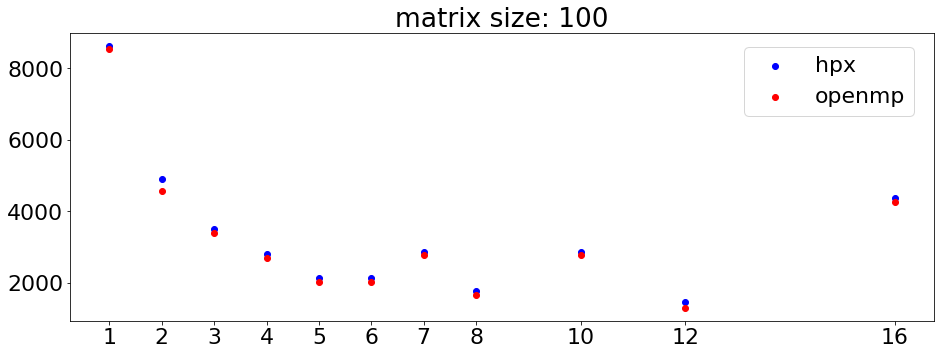
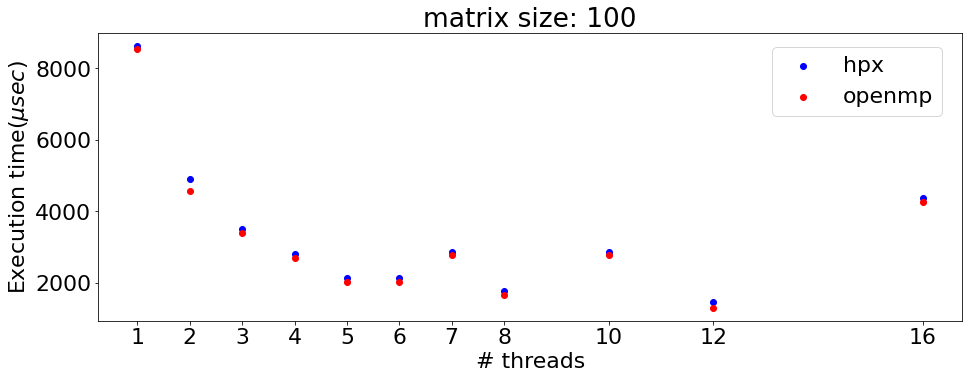
updating python script and plots

diff --git a/python_scripts/plot_results.py b/python_scripts/plot_results.py
@@ -88,6 +88,7 @@ for m in matrix_sizes:
     plt.title('matrix size: '+str(int(m)))
     plt.xticks(thr)
     plt.legend(bbox_to_anchor=(0.78, 0.95), loc=2, borderaxespad=0.)
-
+    plt.xlabel('# threads')
+    plt.ylabel('Execution time($\mu{sec}$)')
     plt.savefig(plot_dir+node+'_'+str(int(m))+'_'+str(int(th))+'.png',bbox_inches='tight')
     i=i+1
